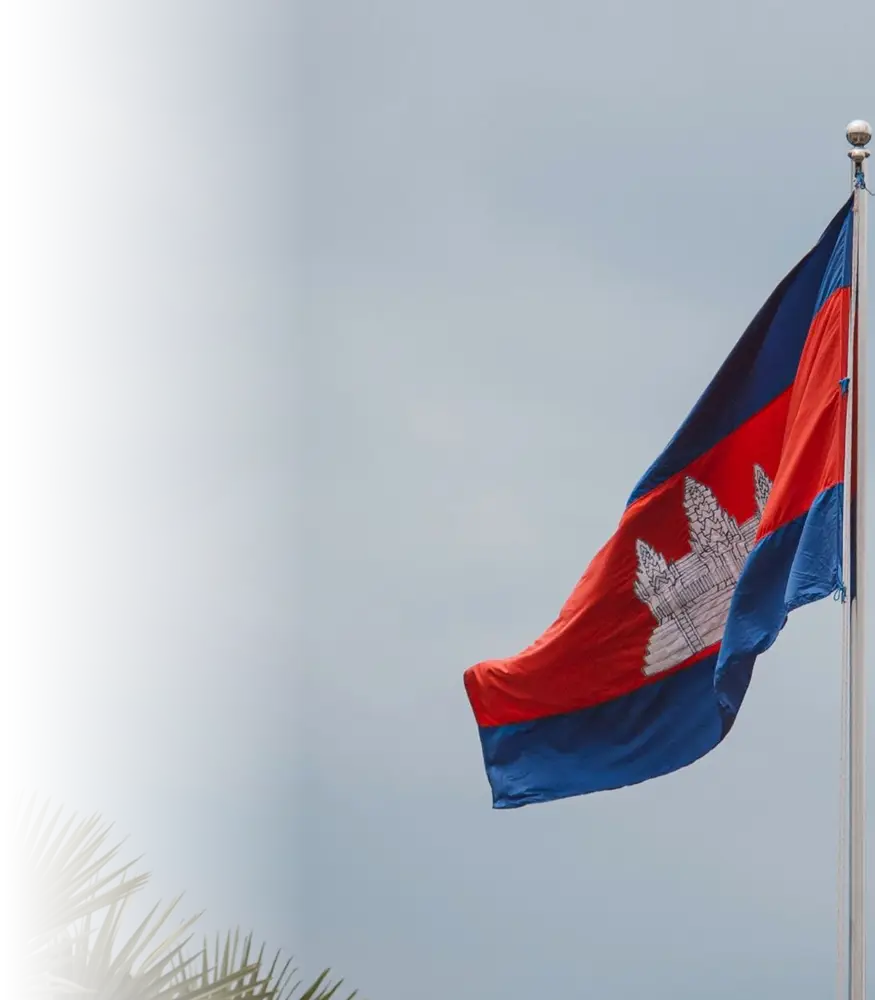
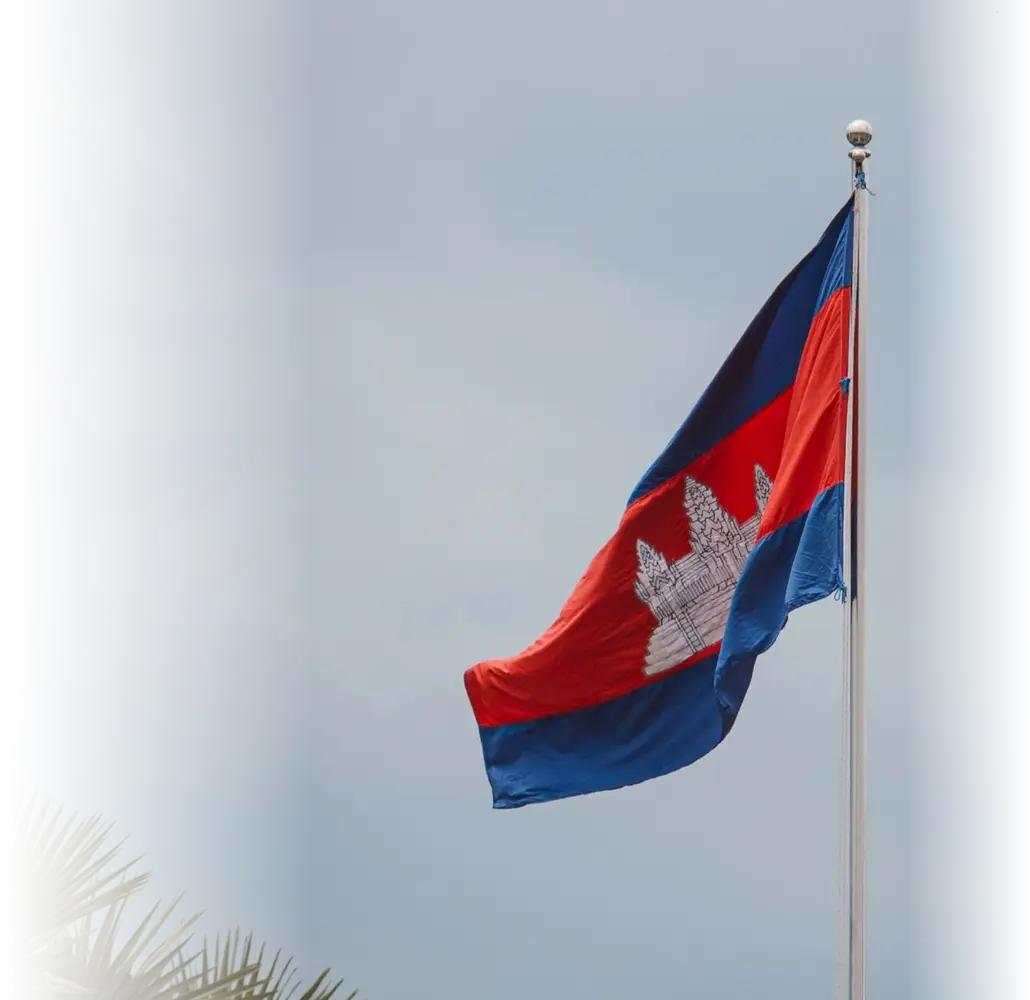
Nudge Fees statue right and About flag left
Claude-Session: https://claude.ai/code/session_01Xbf3RGxxj1HctPg1p79FkA

Changed region(s): [[0.432, 0.0, 1.0, 1.0], [0.0926, 0.837, 0.432, 1.0]]

diff --git a/styles.css b/styles.css
@@ -227,3 +227,8 @@ body.tinted .origin{background:linear-gradient(rgba(8,38,24,.62),rgba(8,38,24,.7
 @media(max-width:900px){.hero-flag{background-position:right 0 center,0 0}}
 body[style*="bg-fees-statue"] .page-hero{background-size:120% auto;background-position:left 25%;background-repeat:no-repeat}
 @media(max-width:900px){body[style*="bg-fees-statue"] .page-hero{background-size:cover;background-position:60% center}}
+/* Round 8 */
+.hero-flag{background:url(assets/about-flag-inset.webp?v=3) right 9vw center/auto 112% no-repeat,linear-gradient(90deg,#46596f 0%,#7388a0 45%,#afbbc5 100%)!important}
+@media(max-width:900px){.hero-flag{background-position:right 0 center,0 0}}
+body[style*="bg-fees-statue"] .page-hero{background-size:136% auto;background-position:left 22%}
+@media(max-width:900px){body[style*="bg-fees-statue"] .page-hero{background-size:cover;background-position:60% center}}

diff --git a/team.html b/team.html
@@ -12,7 +12,7 @@
   <link rel="preconnect" href="https://fonts.googleapis.com">
   <link rel="preconnect" href="https://fonts.gstatic.com" crossorigin>
   <link href="https://fonts.googleapis.com/css2?family=DM+Sans:wght@400;500;600&family=Libre+Caslon+Display&display=swap" rel="stylesheet">
-  <link rel="stylesheet" href="styles.css?v=20261025">
+  <link rel="stylesheet" href="styles.css?v=20261027">
   <style>
     .team-person{min-width:0}
     .team-person .profile-links{display:flex!important;flex-direction:column!important;align-items:flex-start!important;gap:12px!important;width:100%!important;margin:20px 0 0!important}

diff --git a/index.html b/index.html
@@ -12,7 +12,7 @@
   <link rel="preconnect" href="https://fonts.googleapis.com">
   <link rel="preconnect" href="https://fonts.gstatic.com" crossorigin>
   <link href="https://fonts.googleapis.com/css2?family=DM+Sans:wght@400;500;600&family=Libre+Caslon+Display&display=swap" rel="stylesheet">
-  <link rel="stylesheet" href="styles.css?v=20261025">
+  <link rel="stylesheet" href="styles.css?v=20261027">
 </head>
 <body class="tinted" style="--photo:url(assets/hero-poster.jpg);--band1:url(assets/hero-poster.jpg);--band2:url(assets/hero-still-2.jpg);--foot:none">
   <header class="site-header" id="top">

diff --git a/services.html b/services.html
@@ -12,7 +12,7 @@
   <link rel="preconnect" href="https://fonts.googleapis.com">
   <link rel="preconnect" href="https://fonts.gstatic.com" crossorigin>
   <link href="https://fonts.googleapis.com/css2?family=DM+Sans:wght@400;500;600&family=Libre+Caslon+Display&display=swap" rel="stylesheet">
-  <link rel="stylesheet" href="styles.css?v=20261025">
+  <link rel="stylesheet" href="styles.css?v=20261027">
 </head>
 <body class="tinted" style="--photo:url(assets/bg-careers-dusk.jpg);--band1:url(assets/bg-careers-dusk.jpg);--band2:none;--foot:none">
   <header class="site-header" id="top">

diff --git a/about.html b/about.html
@@ -12,7 +12,7 @@
   <link rel="preconnect" href="https://fonts.googleapis.com">
   <link rel="preconnect" href="https://fonts.gstatic.com" crossorigin>
   <link href="https://fonts.googleapis.com/css2?family=DM+Sans:wght@400;500;600&family=Libre+Caslon+Display&display=swap" rel="stylesheet">
-  <link rel="stylesheet" href="styles.css?v=20261025">
+  <link rel="stylesheet" href="styles.css?v=20261027">
 </head>
 <body class="tinted" style="--photo:url(assets/bg-about-flag.jpg);--band1:url(assets/bg-about-flag.jpg);--band2:none;--foot:none">
   <header class="site-header" id="top">

diff --git a/careers.html b/careers.html
@@ -12,7 +12,7 @@
   <link rel="preconnect" href="https://fonts.googleapis.com">
   <link rel="preconnect" href="https://fonts.gstatic.com" crossorigin>
   <link href="https://fonts.googleapis.com/css2?family=DM+Sans:wght@400;500;600&family=Libre+Caslon+Display&display=swap" rel="stylesheet">
-  <link rel="stylesheet" href="styles.css?v=20261025">
+  <link rel="stylesheet" href="styles.css?v=20261027">
 </head>
 <body class="tinted" style="--photo:url(assets/bg-careers-night.jpg);--band1:none;--band2:none;--foot:none">
   <header class="site-header" id="top">

diff --git a/fees.html b/fees.html
@@ -12,7 +12,7 @@
   <link rel="preconnect" href="https://fonts.googleapis.com">
   <link rel="preconnect" href="https://fonts.gstatic.com" crossorigin>
   <link href="https://fonts.googleapis.com/css2?family=DM+Sans:wght@400;500;600&family=Libre+Caslon+Display&display=swap" rel="stylesheet">
-  <link rel="stylesheet" href="styles.css?v=20261025">
+  <link rel="stylesheet" href="styles.css?v=20261027">
 </head>
 <body class="tinted" style="--photo:url(assets/bg-fees-statue.jpg);--band1:none;--band2:none;--foot:none">
   <header class="site-header" id="top">
